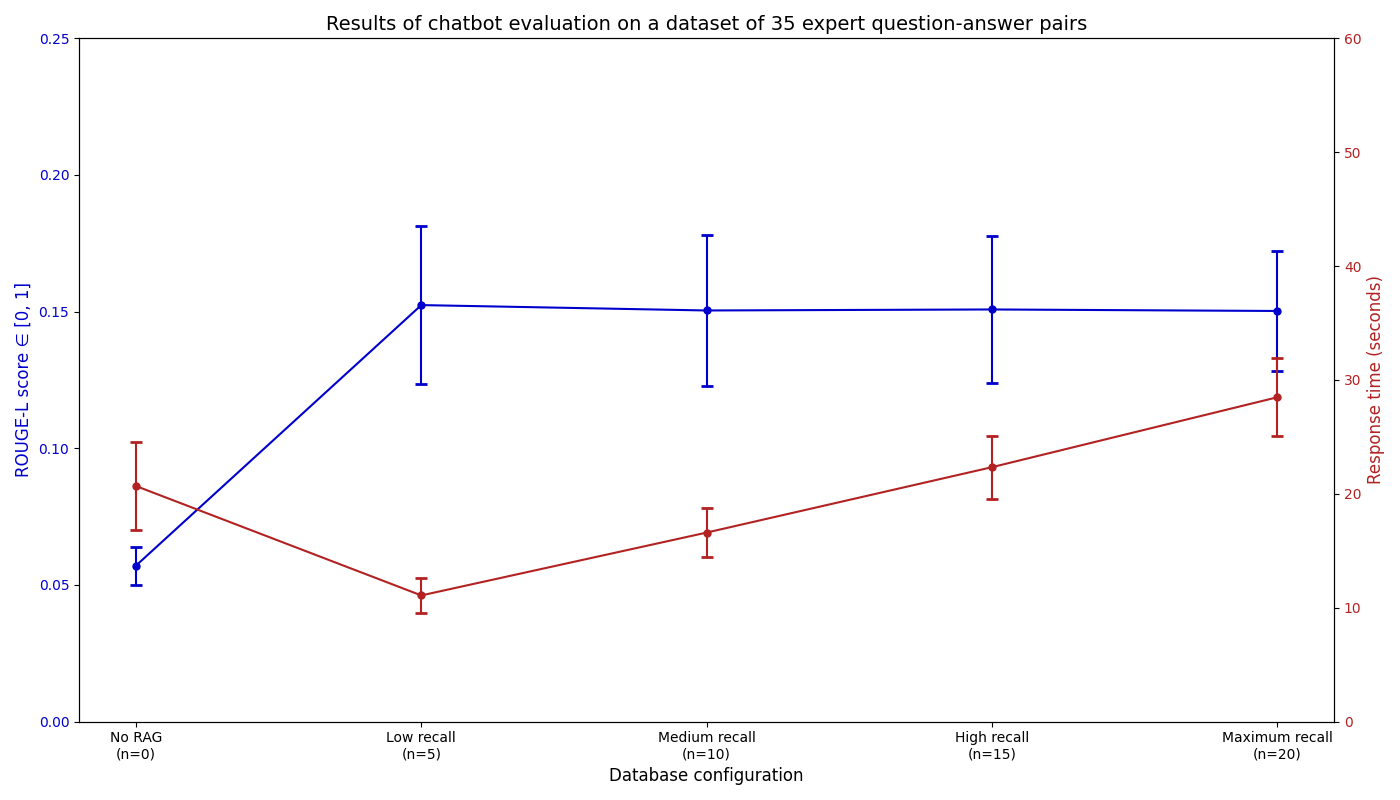
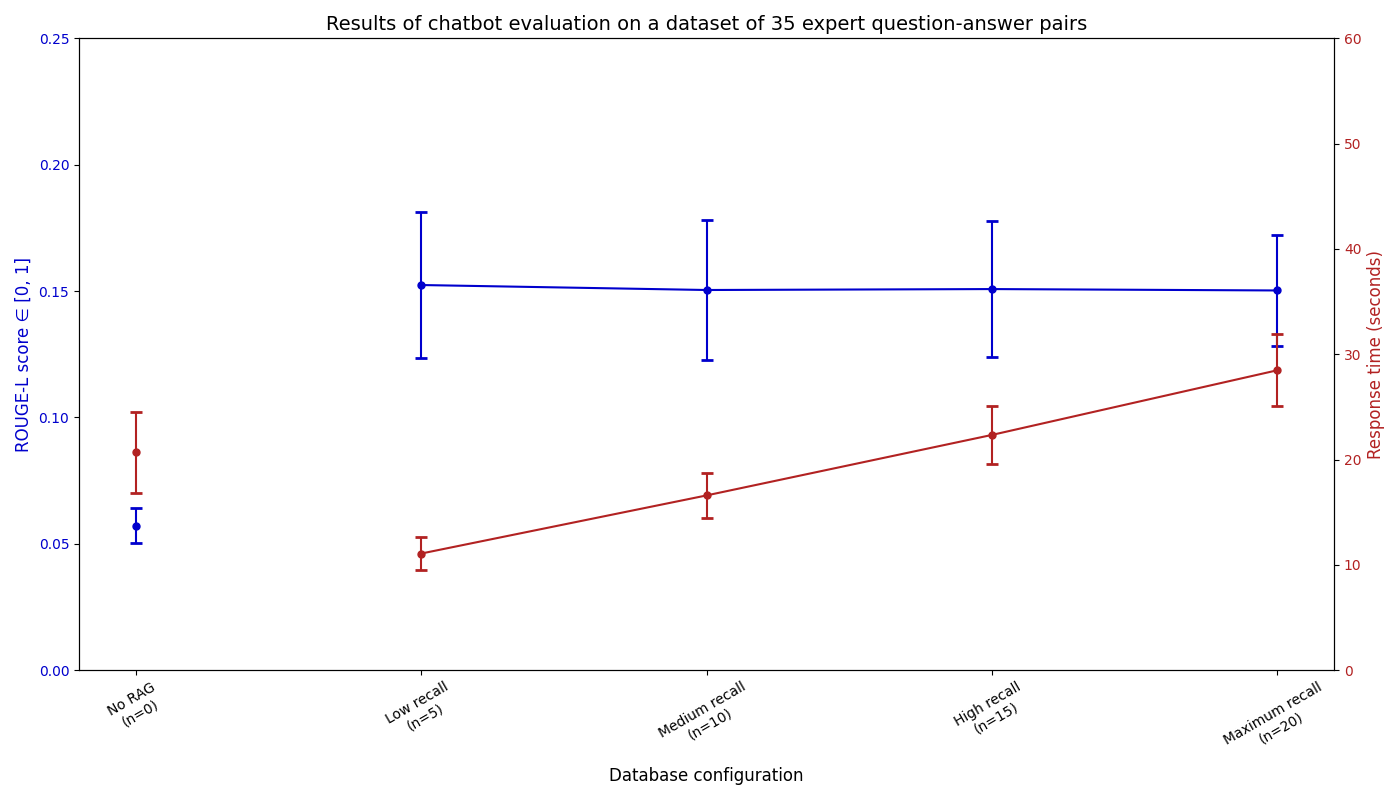
LangFuse service fix

diff --git a/eval/plot_configuration_comparison.py b/eval/plot_configuration_comparison.py
@@ -51,9 +51,14 @@ def plot_score_and_time(metric, y_label, y_min=None, y_max=None):
 
     # score on left axis
     x = np.arange(len(labels))
-    ax1.errorbar(x, score_averages, yerr=score_deviations, color=SCORE_COLOR, capsize=4, capthick=2, marker="o", markersize=5)
+
+    ax1.errorbar(x[0], score_averages[0], yerr=score_deviations[0],
+                 color=SCORE_COLOR, capsize=4, capthick=2, marker="o", markersize=5)
+    ax1.errorbar(x[1:], score_averages[1:], yerr=score_deviations[1:],
+                 color=SCORE_COLOR, capsize=4, capthick=2, marker="o", markersize=5)
+
     ax1.set_xticks(x)
-    ax1.set_xticklabels(labels)
+    ax1.set_xticklabels(labels, rotation=30)
     ax1.set_xlabel("Database configuration", fontsize=12)
     ax1.set_ylim(y_min, y_max)
     ax1.set_ylabel(y_label, color=SCORE_COLOR, fontsize=12)
@@ -61,7 +66,12 @@ def plot_score_and_time(metric, y_label, y_min=None, y_max=None):
 
     # time on right axis
     ax2 = ax1.twinx()
-    ax2.errorbar(x, time_averages, yerr=time_deviations, color=TIME_COLOR, capsize=4, capthick=2, marker="o", markersize=5)
+
+    ax2.errorbar(x[0], time_averages[0], yerr=time_deviations[0],
+                 color=TIME_COLOR, capsize=4, capthick=2, marker="o", markersize=5)
+    ax2.errorbar(x[1:], time_averages[1:], yerr=time_deviations[1:],
+                 color=TIME_COLOR, capsize=4, capthick=2, marker="o", markersize=5)
+
     ax2.set_ylim(0, 60)
     ax2.set_ylabel("Response time (seconds)", color=TIME_COLOR, fontsize=12)
     ax2.tick_params(axis="y", labelcolor=TIME_COLOR)

diff --git a/eval/plot_model_comparison.py b/eval/plot_model_comparison.py
@@ -6,8 +6,8 @@ import matplotlib.patches as mpatches
 
 
 # plot configuration
-RESULT_DIR = "eval/results/models/external_mistral_judge"
-PLOT_DIR = "img/plots/models/external_mistral_judge"
+RESULT_DIR = "eval/results/models/external_qwen_judge"
+PLOT_DIR = "img/plots/models/external_qwen_judge"
 MODEL_FILES = [
     {
         "before": "base_old_qwen.json",
@@ -134,6 +134,7 @@ def plot_metric(metric, y_label, y_min=None, y_max=None):
 
 if __name__ == "__main__":
     plot_metric("bleu_score", "BLEU score ∈ [0, 1]", 0, 0.12)
+    plot_metric("rouge_1_score", "ROUGE-1 score ∈ [0, 1]", 0, 0.35)
     plot_metric("rouge_l_score", "ROUGE-L score ∈ [0, 1]", 0, 0.25)
     plot_metric("semantic_similarity", "Semantic similarity score ∈ [0, 1]", 0.6, 0.9)
     plot_metric("llm_judge_score", "LLM-as-judge score ∈ [1, 5]", 1, 5)
